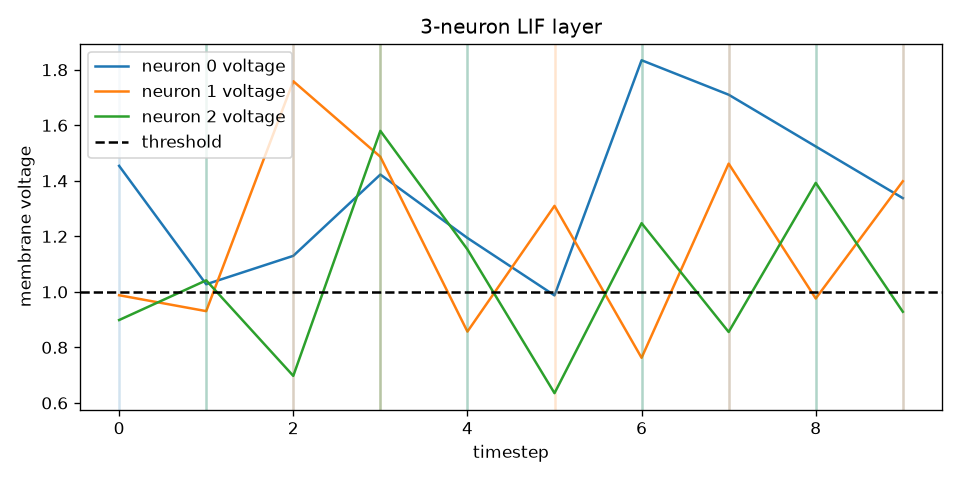
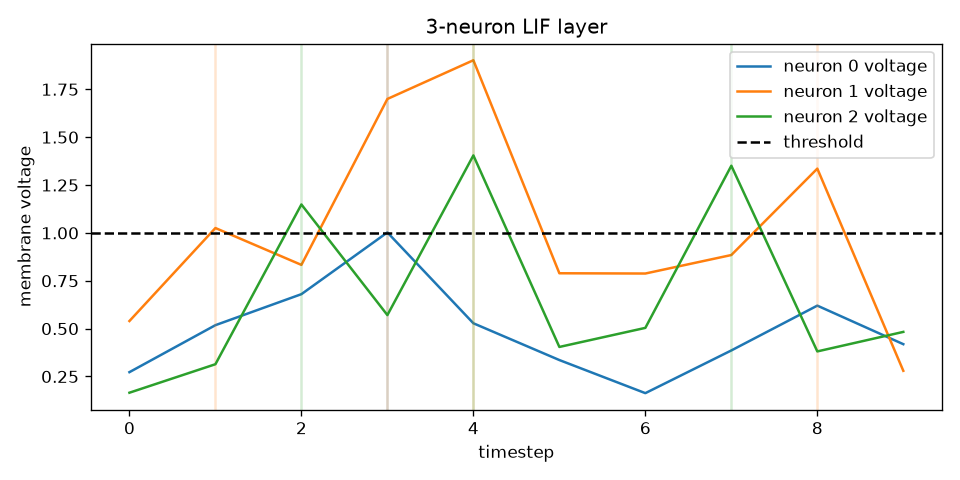
add reset behavior for neurons

diff --git a/layer.py b/layer.py
@@ -12,7 +12,7 @@ layer_1= torch.nn.Linear(5,3)
 layer_1.weight.data = torch.rand(3, 5)
 
 # Layer 2 - 3 Neurons
-lif = snn.Leaky(beta = 0.9) # one global beta for now
+lif = snn.Leaky(beta = 0.9, reset_mechanism = "subtract") # one global beta for now, soft reset
 mem = torch.zeros(3)
 spk_out, mem_out = [[],[],[]], [[],[],[]]
 input_history = []
